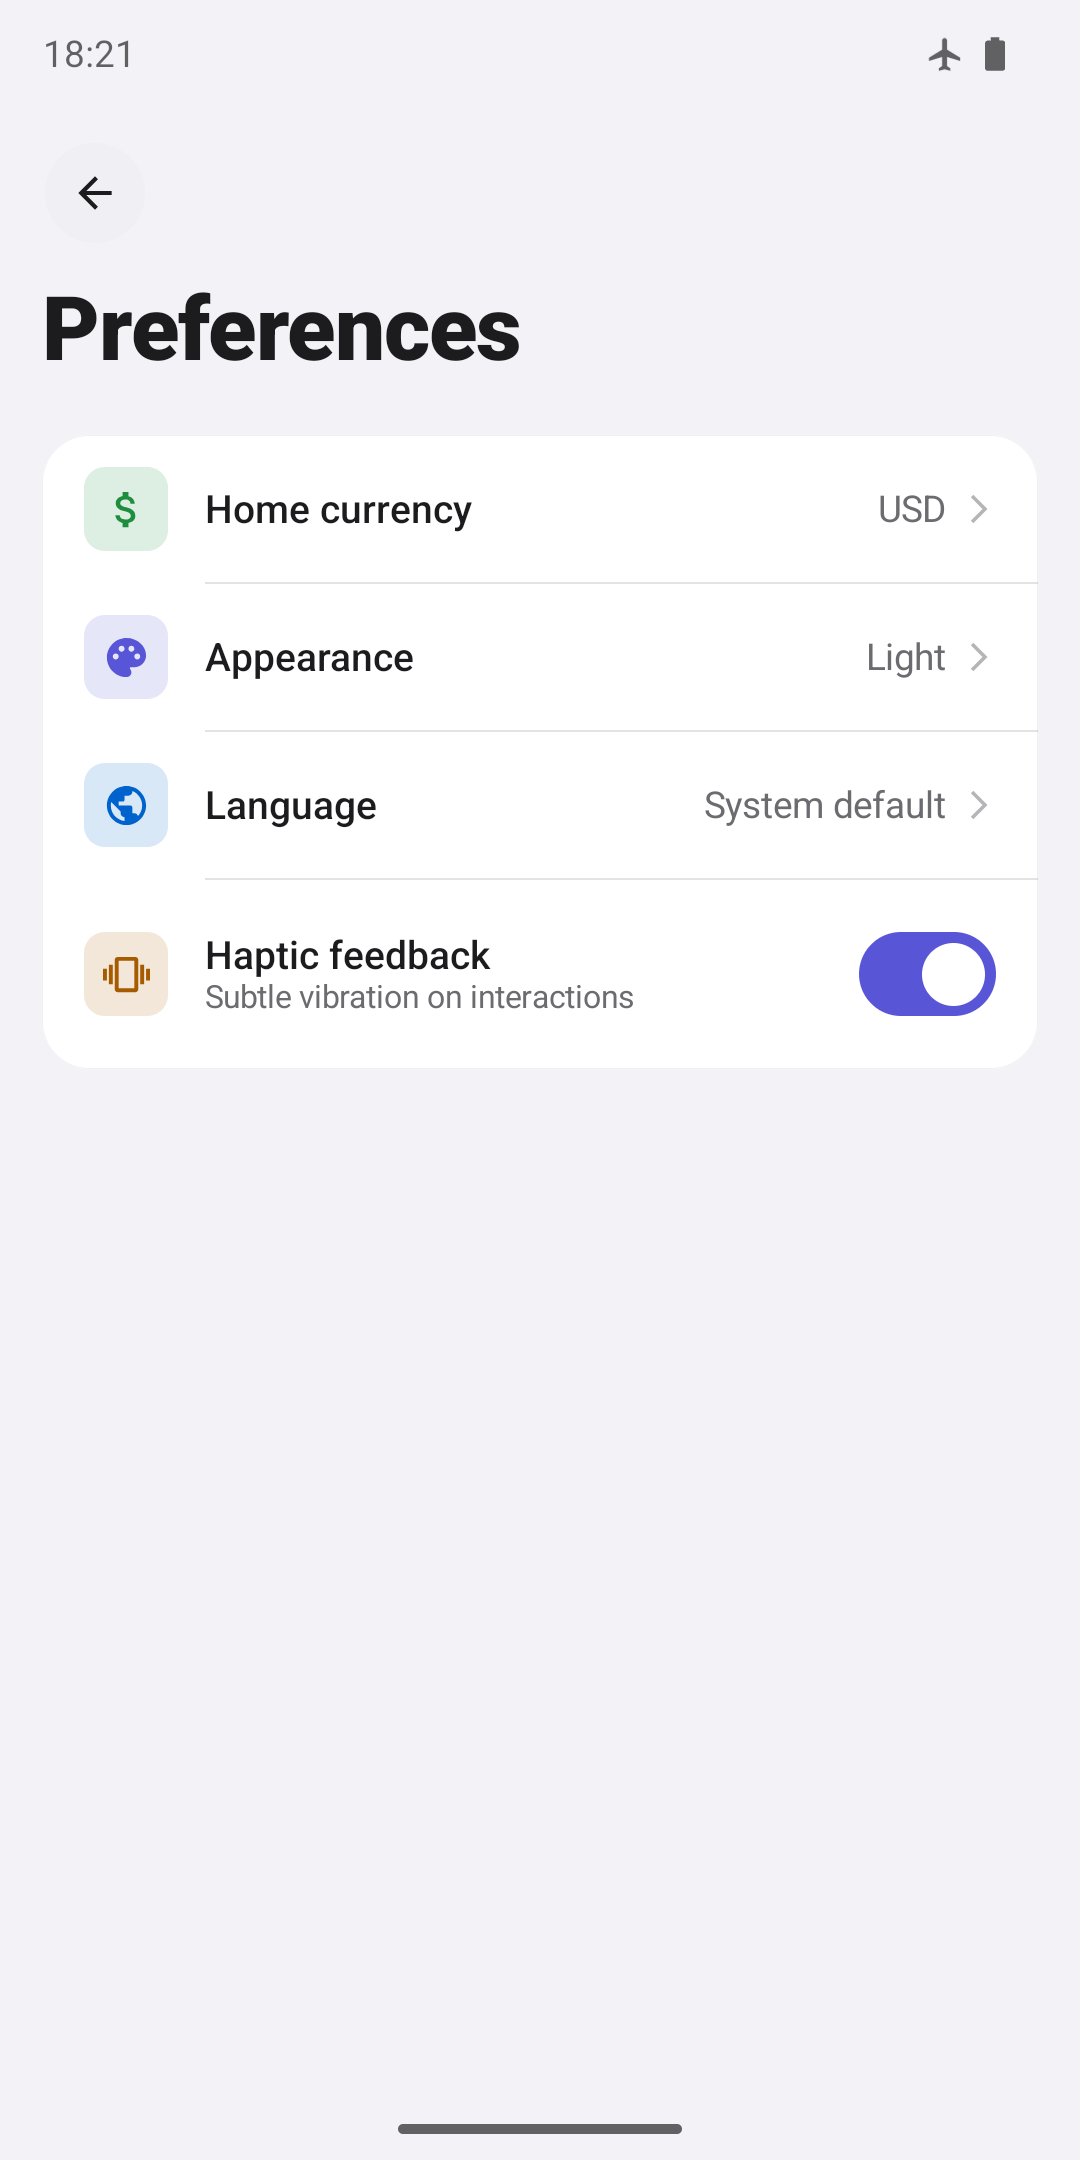
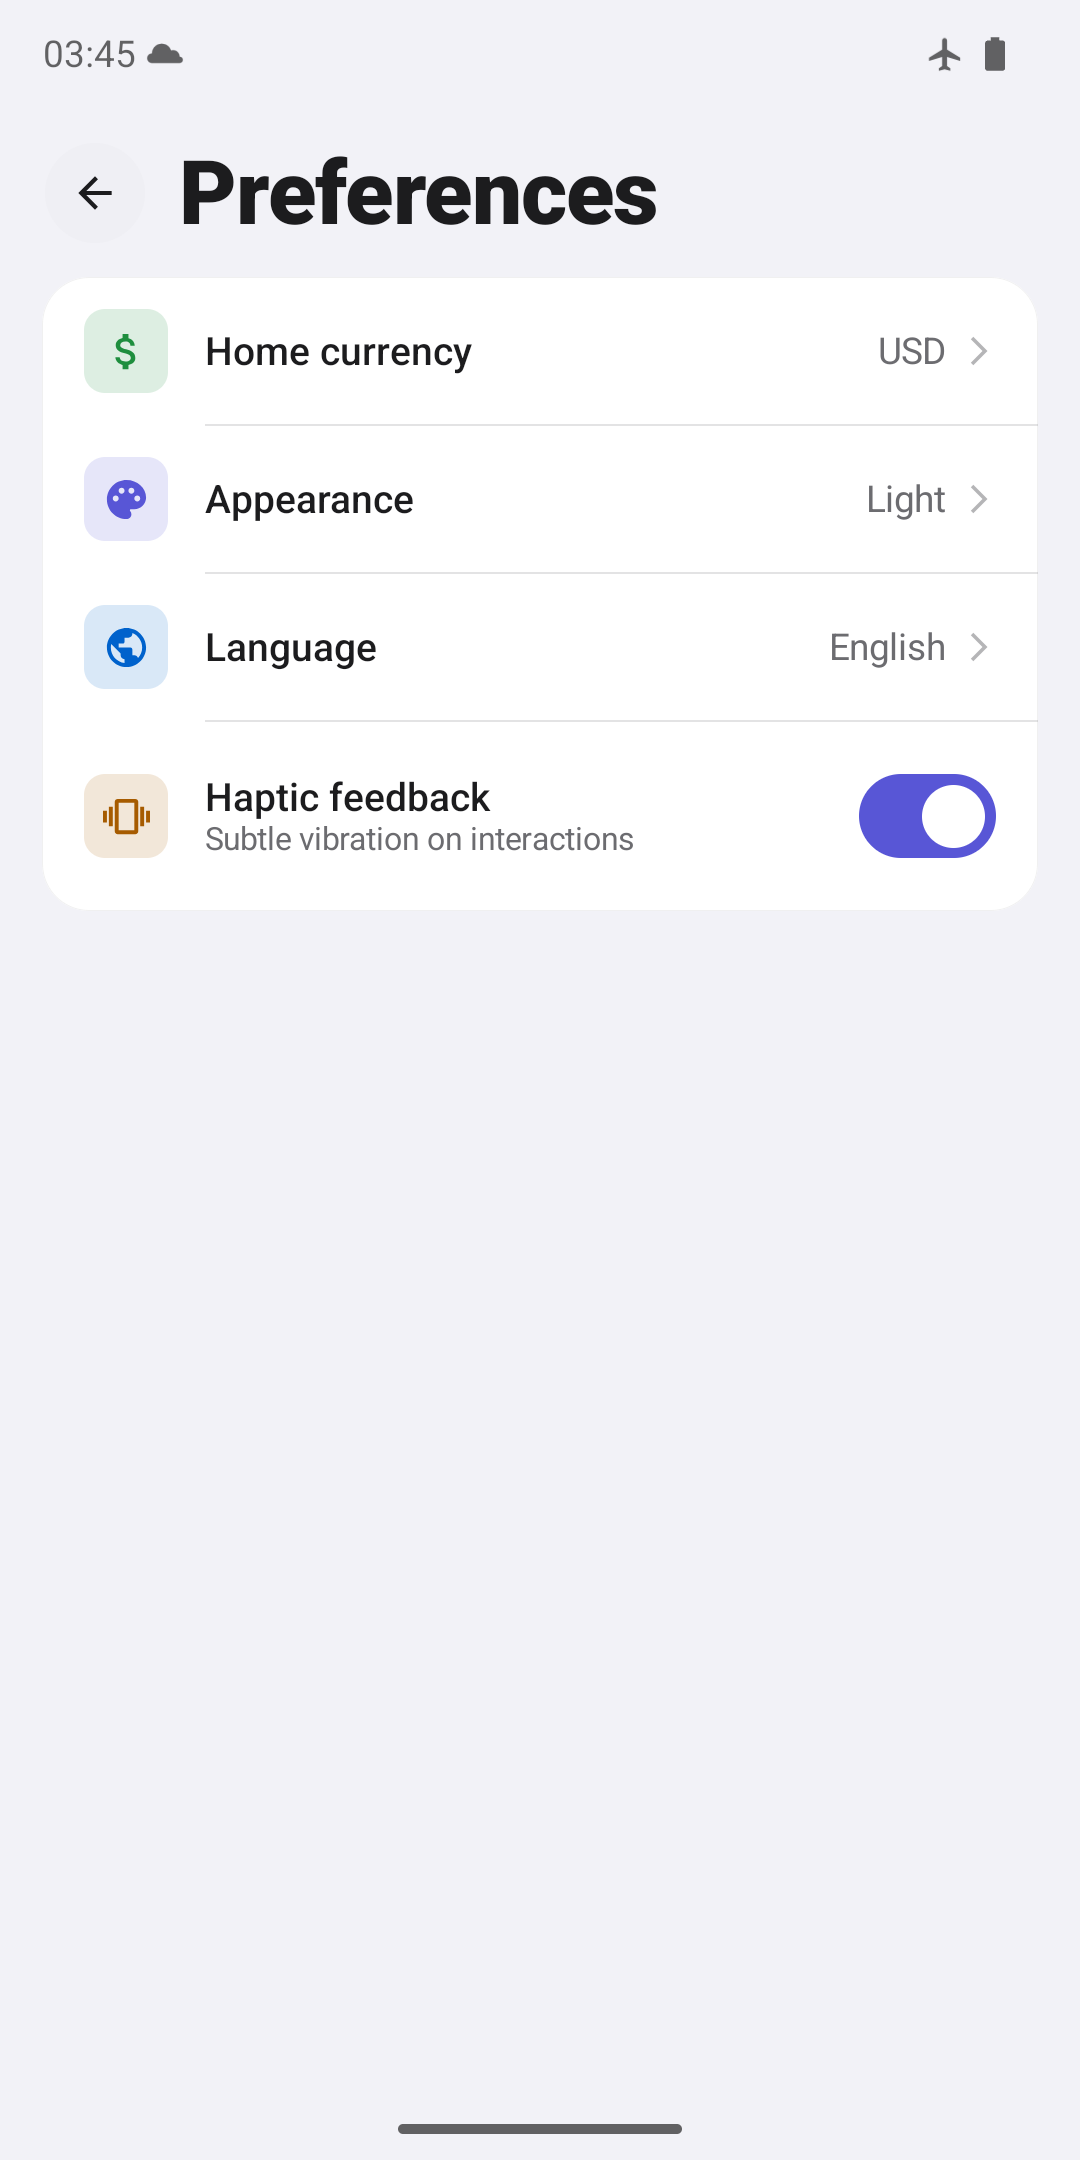
Ship 1.3.2 as versionCode 7, with its Play Store copy
versionCode 7 follows the upload of 6. 1.3.2 is a patch: a Settings
page's back button and title now share one row (BIN-36, #36), and
Contact support writes to bin-tech@outlook.com (BIN-37, #37). Nothing
new to go and find.

The release notes are two bullets in all eight Play tags, using each
app's own words for Settings and Contact support.

05-settings.png is re-captured, because it shows the Preferences page
and that page's header is what #36 changed. It was taken the same way as
the others: 1080x2160, English, USD, light theme, airplane mode.

The Console checklist now also asks for the two contact fields entered
in August - the store listing's contact email and the IARC rating
contact - to be switched to the new address, so the Console matches the
app and the hosted privacy policy. Store listing text and data safety are
unchanged: since v1.3.1 there is no manifest or dependency change, and no
listing mentions the support address or the Settings header.

diff --git a/docs/play-store-copy.md b/docs/play-store-copy.md
@@ -15,6 +15,58 @@ since the last upload" is `git log <last tag>..main`.
 
 ---
 
+## 1.3.2 (versionCode 7): release notes
+
+Changes since 1.3.1 (versionCode 6):
+
+| Change | Source |
+|---|---|
+| Settings pages: back button and page title on one row | BIN-36, PR #36 |
+| Contact support writes to bin-tech@outlook.com | BIN-37, PR #37 |
+
+A patch release: a tighter header and a new support address, nothing new to go
+and find. The terms are each app's own: *Settings* is 设置 / 設定 / *Einstellungen* /
+*Réglages* / *Ajustes* / 設定, and *Contact support* is 联系支持 / 聯絡客服 /
+*Support kontaktieren* / *Contacter le support* / *Contactar con soporte* /
+サポートに連絡.
+
+```
+<en-US>
+• Settings pages now show the back button and the page title on one row, leaving more room for the settings themselves.
+• Contact support now writes to our new address, bin-tech@outlook.com.
+</en-US>
+<zh-CN>
+• 设置里的各个页面，返回按钮和标题现在在同一行，腾出更多空间显示设置项。
+• “联系支持”现在会发邮件到新地址 bin-tech@outlook.com。
+</zh-CN>
+<zh-TW>
+• 設定裡的各個頁面，返回按鈕和標題現在位於同一列，騰出更多空間顯示設定項目。
+• 「聯絡客服」現在會寄信到新地址 bin-tech@outlook.com。
+</zh-TW>
+<zh-HK>
+• 設定裡的各個頁面，返回按鈕和標題現在位於同一列，騰出更多空間顯示設定項目。
+• 「聯絡客服」現在會寄信到新地址 bin-tech@outlook.com。
+</zh-HK>
+<de-DE>
+• In den Einstellungen stehen Zurück-Taste und Seitentitel jetzt in einer Zeile – so bleibt mehr Platz für die Einstellungen selbst.
+• „Support kontaktieren“ schreibt jetzt an unsere neue Adresse bin-tech@outlook.com.
+</de-DE>
+<fr-FR>
+• Dans les Réglages, le bouton retour et le titre de la page sont désormais sur une seule ligne, ce qui laisse plus de place aux réglages.
+• « Contacter le support » écrit désormais à notre nouvelle adresse, bin-tech@outlook.com.
+</fr-FR>
+<es-ES>
+• En Ajustes, el botón de volver y el título de la página ahora están en una sola fila, lo que deja más espacio para los ajustes.
+• «Contactar con soporte» ahora escribe a nuestra nueva dirección, bin-tech@outlook.com.
+</es-ES>
+<ja-JP>
+• 設定の各ページで、戻るボタンとページタイトルが1行にまとまり、設定項目を表示できる領域が広がりました。
+• 「サポートに連絡」の宛先が新しいアドレス bin-tech@outlook.com になりました。
+</ja-JP>
+```
+
+---
+
 ## 1.3.1 (versionCode 6): release notes
 
 Changes since 1.3.0 (versionCode 5):
@@ -687,20 +739,25 @@ so the feature isn't there.
 
 ## Other Console items for this release
 
-- [ ] **versionCode 6 / versionName 1.3.1**. 5 is used up.
-- [ ] **Release notes**: paste the whole 1.3.1 block, all languages.
-- [ ] **Store listings: no change from 1.3.0.** 1.3.1 only fixes the widget
-      refresh and the language it draws in and adds its picker preview, and
-      nothing a listing claims has moved (since v1.3.0 only `SubFlowWidget.kt`,
-      `SubFlowNavGraph.kt` and the widget's preview resources changed). If the 1.3.0 listing work is still
-      open — replacing the en-US text and adding the six translations under
-      Main store listing → Manage translations — it still applies.
-- [ ] **Screenshots**: unchanged. Still no widget screenshot; one from a real
-      phone with a clean home screen is still worth adding.
-- [ ] **Data safety: no changes.** Since v1.3.0 the manifest and the
-      dependencies are untouched; the changes only affect when the widget
-      reads the local database, which language it draws in, and a static
-      preview layout the launcher shows before the widget is placed.
+- [ ] **versionCode 7 / versionName 1.3.2**. 6 is used up.
+- [ ] **Release notes**: paste the whole 1.3.2 block, all languages.
+- [ ] **Screenshot `05-settings.png` replaced (2026-09-14).** It shows the
+      Preferences page, whose header changed in #36: the back button and the
+      title are now on one row. Upload it in place of the old one. Captured the
+      same way as the rest (1080×2160, English, USD, light, airplane mode). The
+      other five are unchanged. Still no widget screenshot.
+- [ ] **Contact details: switch to `bin-tech@outlook.com`.** The app's Contact
+      support and the hosted privacy policy and terms already use it, but two
+      Console fields entered on 2026-08-28 still say `zmtzwb@gmail.com`: Main
+      store listing → 详细联系信息 (email), and the IARC content-rating contact.
+- [ ] **Store listing text: no change from 1.3.1.** Since v1.3.1 only
+      `SettingsScreen.kt` and docs changed, and no listing names the support
+      address or describes the Settings header. If the earlier listing work is
+      still open — replacing the en-US text and adding the six translations
+      under Main store listing → Manage translations — it still applies.
+- [ ] **Data safety: no changes.** Re-checked since v1.3.1: no manifest or
+      dependency change. The support address is a mailto link the user chooses
+      to open; the app sends nothing itself.
 
 ### How the screenshots were taken
 
